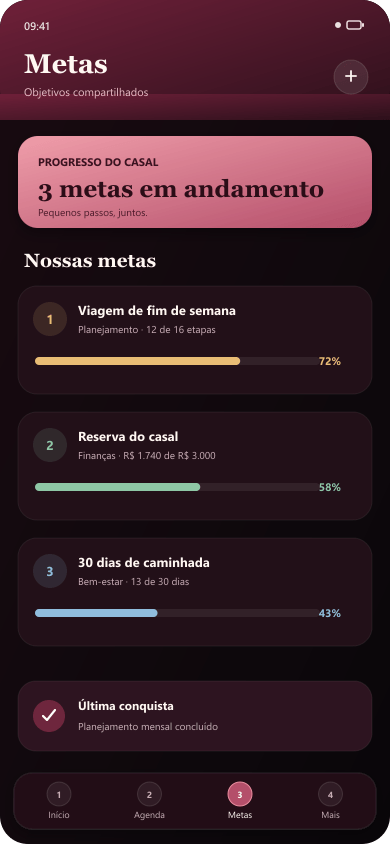
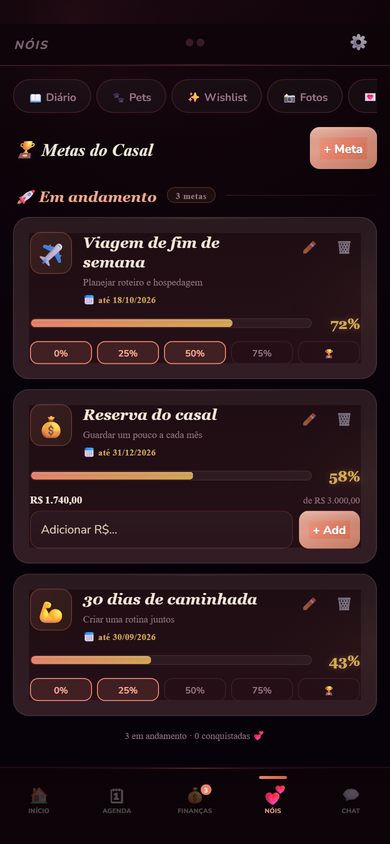
docs: use real Nós Dois interface captures (#4)

diff --git a/app/ProjectCaseStudy.tsx b/app/ProjectCaseStudy.tsx
@@ -144,7 +144,7 @@ const projects = {
           "Responsabilidade na publicação: dados fictícios, credenciais externas, documentação, testes e revisão de segurança.",
         ],
         considerationsTitle: "Escopo da autoria",
-        considerationsBody: "A maior parte da implementação original foi produzida por ferramentas de IA generativa. Por isso, não apresento o Nós Dois como prova de domínio autônomo de frontend ou backend. Este estudo de caso documenta definição de produto, decomposição de problemas, avaliação crítica, testes e publicação responsável. As demonstrações adicionais da galeria foram recriadas com dados fictícios para não expor capturas do ambiente privado.",
+        considerationsBody: "A maior parte da implementação original foi produzida por ferramentas de IA generativa. Por isso, não apresento o Nós Dois como prova de domínio autônomo de frontend ou backend. Este estudo de caso documenta definição de produto, decomposição de problemas, avaliação crítica, testes e publicação responsável. As telas adicionais da galeria foram capturadas da interface real em uma execução local isolada, com dados fictícios e sem conexão com o ambiente privado.",
         captions: ["Início e próximos eventos", "Agenda compartilhada", "Orçamento e divisão de gastos", "Diário e memórias", "Mapa e localização compartilhada", "Metas e progresso do casal", "Lista de compras compartilhada", "Galeria e cápsula do tempo"],
         alt: ["Tela inicial do aplicativo Nós Dois", "Agenda compartilhada do Nós Dois", "Painel de gastos do Nós Dois", "Diário do aplicativo Nós Dois", "Demonstração sanitizada do mapa compartilhado do Nós Dois", "Painel de metas compartilhadas do Nós Dois", "Lista de compras compartilhada do Nós Dois", "Galeria de memórias fictícias do Nós Dois"],
       },
@@ -168,7 +168,7 @@ const projects = {
           "Responsible publication: fictional data, externalized credentials, documentation, tests, and security review.",
         ],
         considerationsTitle: "Scope of authorship",
-        considerationsBody: "Most of the original implementation was produced by generative AI tools. I therefore do not present Nós Dois as proof of independent frontend or backend expertise. This case study documents product definition, problem decomposition, critical evaluation, testing, and responsible publication. The additional gallery demonstrations were recreated with fictional data to avoid exposing screenshots from the private environment.",
+        considerationsBody: "Most of the original implementation was produced by generative AI tools. I therefore do not present Nós Dois as proof of independent frontend or backend expertise. This case study documents product definition, problem decomposition, critical evaluation, testing, and responsible publication. The additional gallery screens were captured from the real interface in an isolated local run, using fictional data and no connection to the private environment.",
         captions: ["Home and upcoming events", "Shared calendar", "Budget and expense split", "Journal and memories", "Shared map and location", "Couple goals and progress", "Shared shopping list", "Gallery and time capsule"],
         alt: ["Nós Dois application home screen", "Nós Dois shared calendar", "Nós Dois expense dashboard", "Nós Dois journal", "Sanitized demonstration of the Nós Dois shared map", "Nós Dois shared goals dashboard", "Nós Dois shared shopping list", "Nós Dois fictional memories gallery"],
       },
@@ -192,7 +192,7 @@ const projects = {
           "Publicación responsable: datos ficticios, credenciales externas, documentación, pruebas y revisión de seguridad.",
         ],
         considerationsTitle: "Alcance de la autoría",
-        considerationsBody: "La mayor parte de la implementación original fue producida por herramientas de IA generativa. Por eso, no presento Nós Dois como prueba de dominio autónomo de frontend o backend. Este caso documenta definición de producto, descomposición de problemas, evaluación crítica, pruebas y publicación responsable. Las demostraciones adicionales de la galería fueron recreadas con datos ficticios para no exponer capturas del entorno privado.",
+        considerationsBody: "La mayor parte de la implementación original fue producida por herramientas de IA generativa. Por eso, no presento Nós Dois como prueba de dominio autónomo de frontend o backend. Este caso documenta definición de producto, descomposición de problemas, evaluación crítica, pruebas y publicación responsable. Las pantallas adicionales de la galería fueron capturadas de la interfaz real en una ejecución local aislada, con datos ficticios y sin conexión con el entorno privado.",
         captions: ["Inicio y próximos eventos", "Agenda compartida", "Presupuesto y división de gastos", "Diario y recuerdos", "Mapa y ubicación compartida", "Metas y progreso de la pareja", "Lista de compras compartida", "Galería y cápsula del tiempo"],
         alt: ["Pantalla inicial de Nós Dois", "Agenda compartida de Nós Dois", "Panel de gastos de Nós Dois", "Diario de Nós Dois", "Demostración sanitizada del mapa compartido de Nós Dois", "Panel de metas compartidas de Nós Dois", "Lista de compras compartida de Nós Dois", "Galería de recuerdos ficticios de Nós Dois"],
       },
